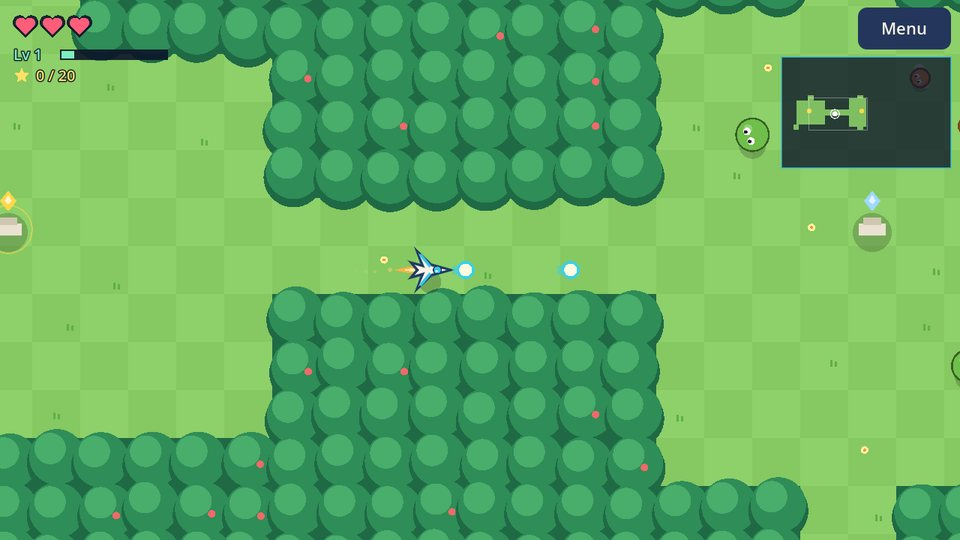
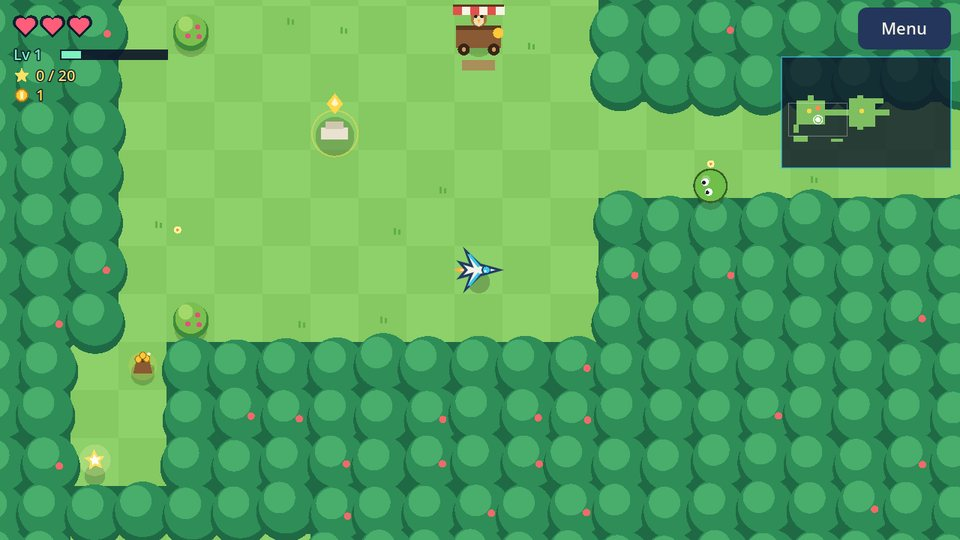
Tiny Tailwind card: v0.3.0 picture and description (coins and the shop)
Claude-Session: https://claude.ai/code/session_0117TTYCRghBZLfddXFNktAx

diff --git a/index.html b/index.html
@@ -88,10 +88,10 @@ footer{margin-top:40px;color:var(--soft);font-size:14px;text-align:center}
 </article>
 
 <article class="card" data-repo="tiny-tailwind">
-<a class="shot" href="tiny-tailwind/"><img src="images/tiny-tailwind.jpg" alt="Tiny Tailwind: a small ship dodging pink shots from the warden Thornhull" width="960" height="540" loading="lazy"></a>
+<a class="shot" href="tiny-tailwind/"><img src="images/tiny-tailwind.jpg" alt="Tiny Tailwind: the glider breaking berry bushes for coins in the Sunmeadow" width="960" height="540" loading="lazy"></a>
 <div class="body">
 <div class="top"><h2><a href="tiny-tailwind/">Tiny Tailwind</a></h2><span class="tag">A twin-stick adventure</span></div>
-<p class="desc">Fly a small ship through the Sunmeadow. Shoot past brambly critters, find 20 keepsakes, win the dash and calm the warden of the keep. Defeat never costs a thing.</p>
+<p class="desc">Fly a little glider through the Sunmeadow. Shoot past brambly critters, gather coins for Wren's Wagon, find 20 keepsakes and calm the warden of the keep. Defeat never costs a thing.</p>
 <p class="meta">Browser and Android<span class="ver"></span></p>
 <div class="actions"><a class="btn" href="tiny-tailwind/">Open game page</a><a class="src" href="https://github.com/bclark10121-cloud/tiny-tailwind">Source on GitHub</a></div>
 </div>
